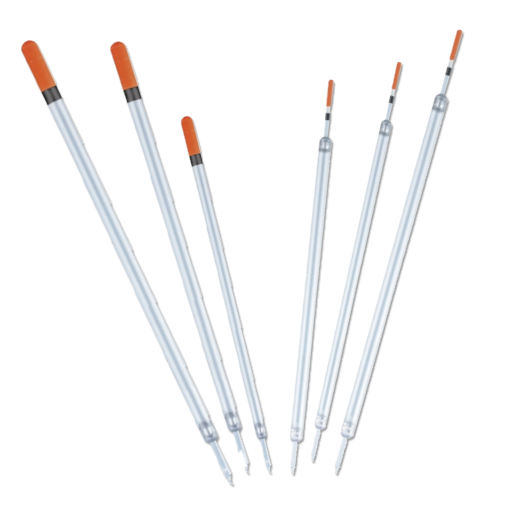
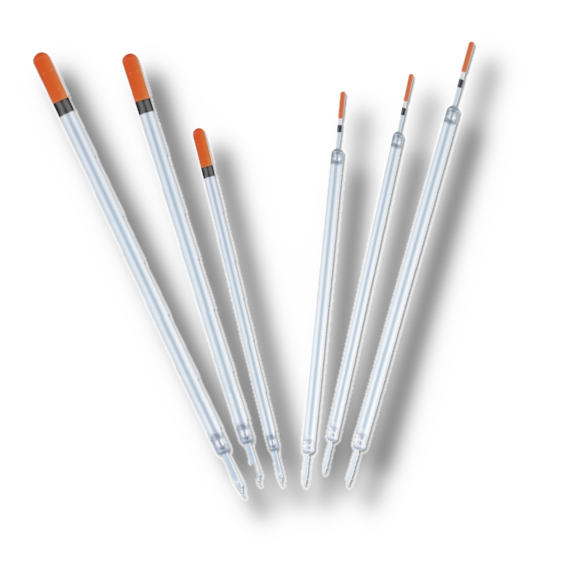
hmmm, this may break stuff. fixed images for multiplayer

Changed region(s): [[0.0312, 0.0625, 0.9062, 0.9688]]

diff --git a/src/routes/multiplayer/lobby/+page.svelte b/src/routes/multiplayer/lobby/+page.svelte
@@ -3,6 +3,8 @@
 	import { multiplayer } from '$lib/game/party/connection.svelte';
 	import { gameState } from '$lib/game/state.svelte';
 	import { venues } from '$lib/data';
+	import Filmstrip from '$lib/components/Filmstrip.svelte';
+	import type { FilmstripItem } from '$lib/components/Filmstrip.svelte';
 
 	const venue = venues[0];
 	const lake = venue.lakes[0];
@@ -44,6 +46,21 @@
 	function playerImg(image: string): string {
 		return image ? (botImages[`/src/lib/assets/images/bots/${image}`] ?? '') : '';
 	}
+
+	let filmstripPlayers = $derived<FilmstripItem[]>(
+		[...multiplayer.players]
+			.sort((a, b) => {
+				if (a.name === multiplayer.hostName) return -1;
+				if (b.name === multiplayer.hostName) return 1;
+				return 0;
+			})
+			.map((p) => ({
+				id: p.name + p.pegName,
+				label: p.name,
+				imageUrl: playerImg(p.image) || undefined,
+				description: `Peg ${p.pegName}`
+			}))
+	);
 </script>
 
 <div class="flex min-h-dvh flex-col items-center bg-surface px-4 py-8">
@@ -72,35 +89,11 @@
 
 		<div class="flex flex-col gap-2">
 			<h3 class="text-sm font-medium text-dark-teal/60">Players</h3>
-			{#each multiplayer.players as player (player.name + player.pegName)}
-				<div
-					class="flex items-center gap-3 rounded-xl bg-white/70 px-4 py-3 shadow-sm {player.name ===
-					multiplayer.playerName
-						? 'ring-2 ring-accent'
-						: ''}"
-				>
-					<div class="h-8 w-8 shrink-0 overflow-hidden rounded-full bg-dark-teal/10">
-						{#if playerImg(player.image)}
-							<img src={playerImg(player.image)} alt="" class="h-full w-full object-cover" />
-						{:else}
-							<div
-								class="flex h-full w-full items-center justify-center text-sm font-bold text-dark-teal"
-							>
-								{player.name[0].toUpperCase()}
-							</div>
-						{/if}
-					</div>
-					<div class="flex-1">
-						<p class="font-medium text-dark-teal">
-							{player.name}
-							{#if player.name === multiplayer.hostName}
-								<span class="text-xs text-accent">(Host)</span>
-							{/if}
-						</p>
-						<p class="text-xs text-dark-teal/50">Peg {player.pegName}</p>
-					</div>
-				</div>
-			{/each}
+			<Filmstrip
+				items={filmstripPlayers}
+				selected={multiplayer.playerName + multiplayer.ownPeg}
+				variant="display"
+			/>
 		</div>
 
 		<div class="flex flex-col gap-3">

diff --git a/src/routes/multiplayer/host/+page.svelte b/src/routes/multiplayer/host/+page.svelte
@@ -87,12 +87,7 @@
 
 			<div class="flex flex-col gap-1">
 				<span class="text-sm font-medium text-dark-teal">Your Avatar</span>
-				<Filmstrip
-					items={filmstripItems}
-					selected={avatar}
-					onselect={(id) => (avatar = id)}
-					size="small"
-				/>
+				<Filmstrip items={filmstripItems} selected={avatar} onselect={(id) => (avatar = id)} />
 			</div>
 
 			<div class="flex flex-col gap-1">

diff --git a/src/routes/multiplayer/join/+page.svelte b/src/routes/multiplayer/join/+page.svelte
@@ -91,12 +91,7 @@
 
 			<div class="flex flex-col gap-1">
 				<span class="text-sm font-medium text-dark-teal">Your Avatar</span>
-				<Filmstrip
-					items={filmstripItems}
-					selected={avatar}
-					onselect={(id) => (avatar = id)}
-					size="small"
-				/>
+				<Filmstrip items={filmstripItems} selected={avatar} onselect={(id) => (avatar = id)} />
 			</div>
 
 			<div class="flex flex-col gap-1">

diff --git a/src/lib/game/party/host.ts b/src/lib/game/party/host.ts
@@ -1,13 +1,13 @@
 import { browser } from '$app/environment';
+import { PUBLIC_PARTYKIT_HOST } from '$env/static/public';
 
 const PARTY_NAME = 'room';
 const DEV_PORT = 1999;
 
 export function partyUrl(roomId: string): string {
 	if (!browser) return '';
-	const partykitHost = import.meta.env.PUBLIC_PARTYKIT_HOST as string | undefined;
-	if (partykitHost) {
-		return `wss://${partykitHost}/parties/${PARTY_NAME}/${roomId}`;
+	if (PUBLIC_PARTYKIT_HOST) {
+		return `wss://${PUBLIC_PARTYKIT_HOST}/parties/${PARTY_NAME}/${roomId}`;
 	}
 	const host = window.location.hostname;
 	if (window.location.protocol === 'http:') {

diff --git a/vite.config.ts b/vite.config.ts
@@ -5,11 +5,6 @@ import { sveltekit } from '@sveltejs/kit/vite';
 
 export default defineConfig({
 	plugins: [tailwindcss(), sveltekit()],
-	define: {
-		'import.meta.env.PUBLIC_PARTYKIT_HOST': JSON.stringify(
-			'jcmf-multiplayer.lbiddiscombe.partykit.dev'
-		)
-	},
 	test: {
 		expect: { requireAssertions: true },
 		projects: [

diff --git a/src/party/server.ts b/src/party/server.ts
@@ -86,16 +86,16 @@ export default class GameRoom implements Party.Server {
 
 		switch (data.type) {
 			case 'create-room': {
-				if (this.state.hostConnectionId) break;
 				const name = typeof data.name === 'string' ? data.name.trim() : 'Host';
 				const image = typeof data.image === 'string' ? data.image : '';
 				const timeLimit = typeof data.timeLimitMinutes === 'number' ? data.timeLimitMinutes : 10;
+				this.state.phase = 'lobby';
 				this.state.hostConnectionId = sender.id;
 				this.state.hostName = name || 'Host';
 				this.state.timeLimitMinutes = timeLimit;
+				this.state.players = [];
 				this.state.startTime = null;
 				this.state.catchAudit = [];
-				this.state.phase = 'lobby';
 				this.state.readyConnectionIds = [];
 				const peg = this.assignPeg();
 				if (peg) {

diff --git a/src/routes/game/+page.svelte b/src/routes/game/+page.svelte
@@ -565,7 +565,7 @@
 		{#if tackle}
 			<button
 				onclick={handleChangeTackle}
-				class="w-full cursor-pointer rounded-xl border border-olive bg-surface/30 p-3 text-left sm:max-w-sm"
+				class="w-full cursor-pointer rounded-2xl bg-white/70 p-3 text-left shadow-md transition-shadow hover:shadow-lg sm:max-w-sm"
 			>
 				<div class="flex items-center justify-center gap-3">
 					<div class="flex flex-col items-center gap-0.5">